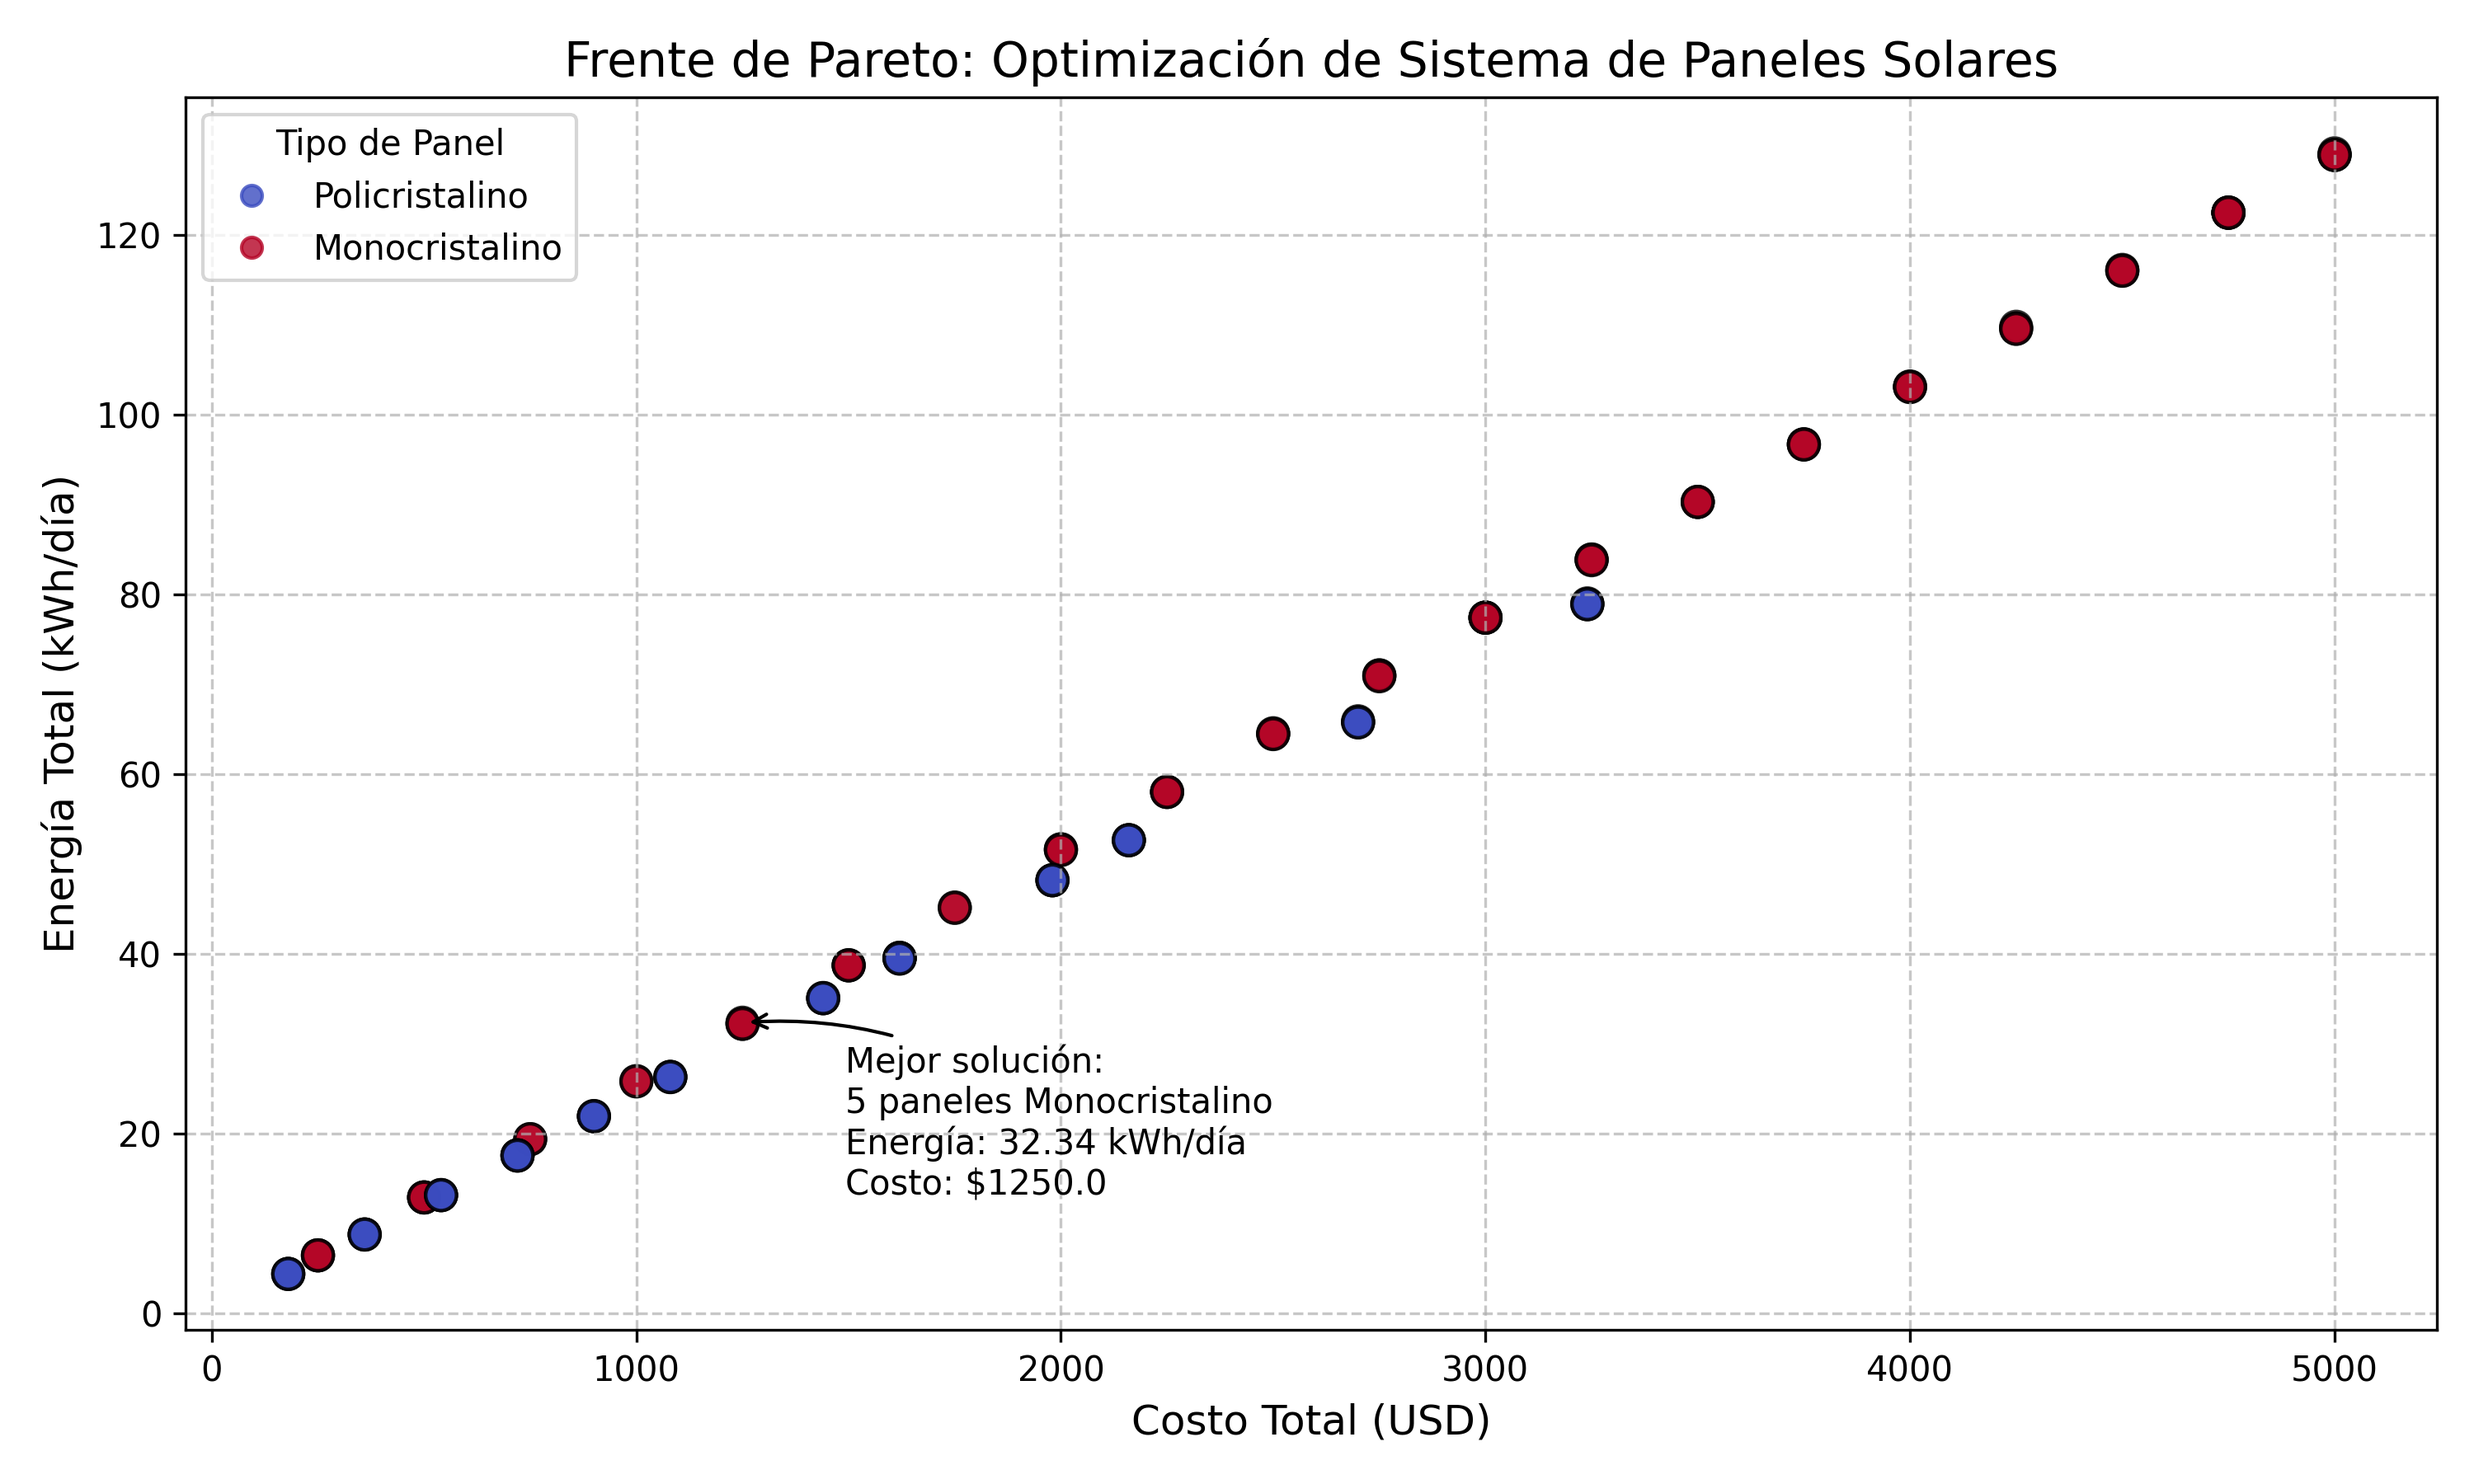
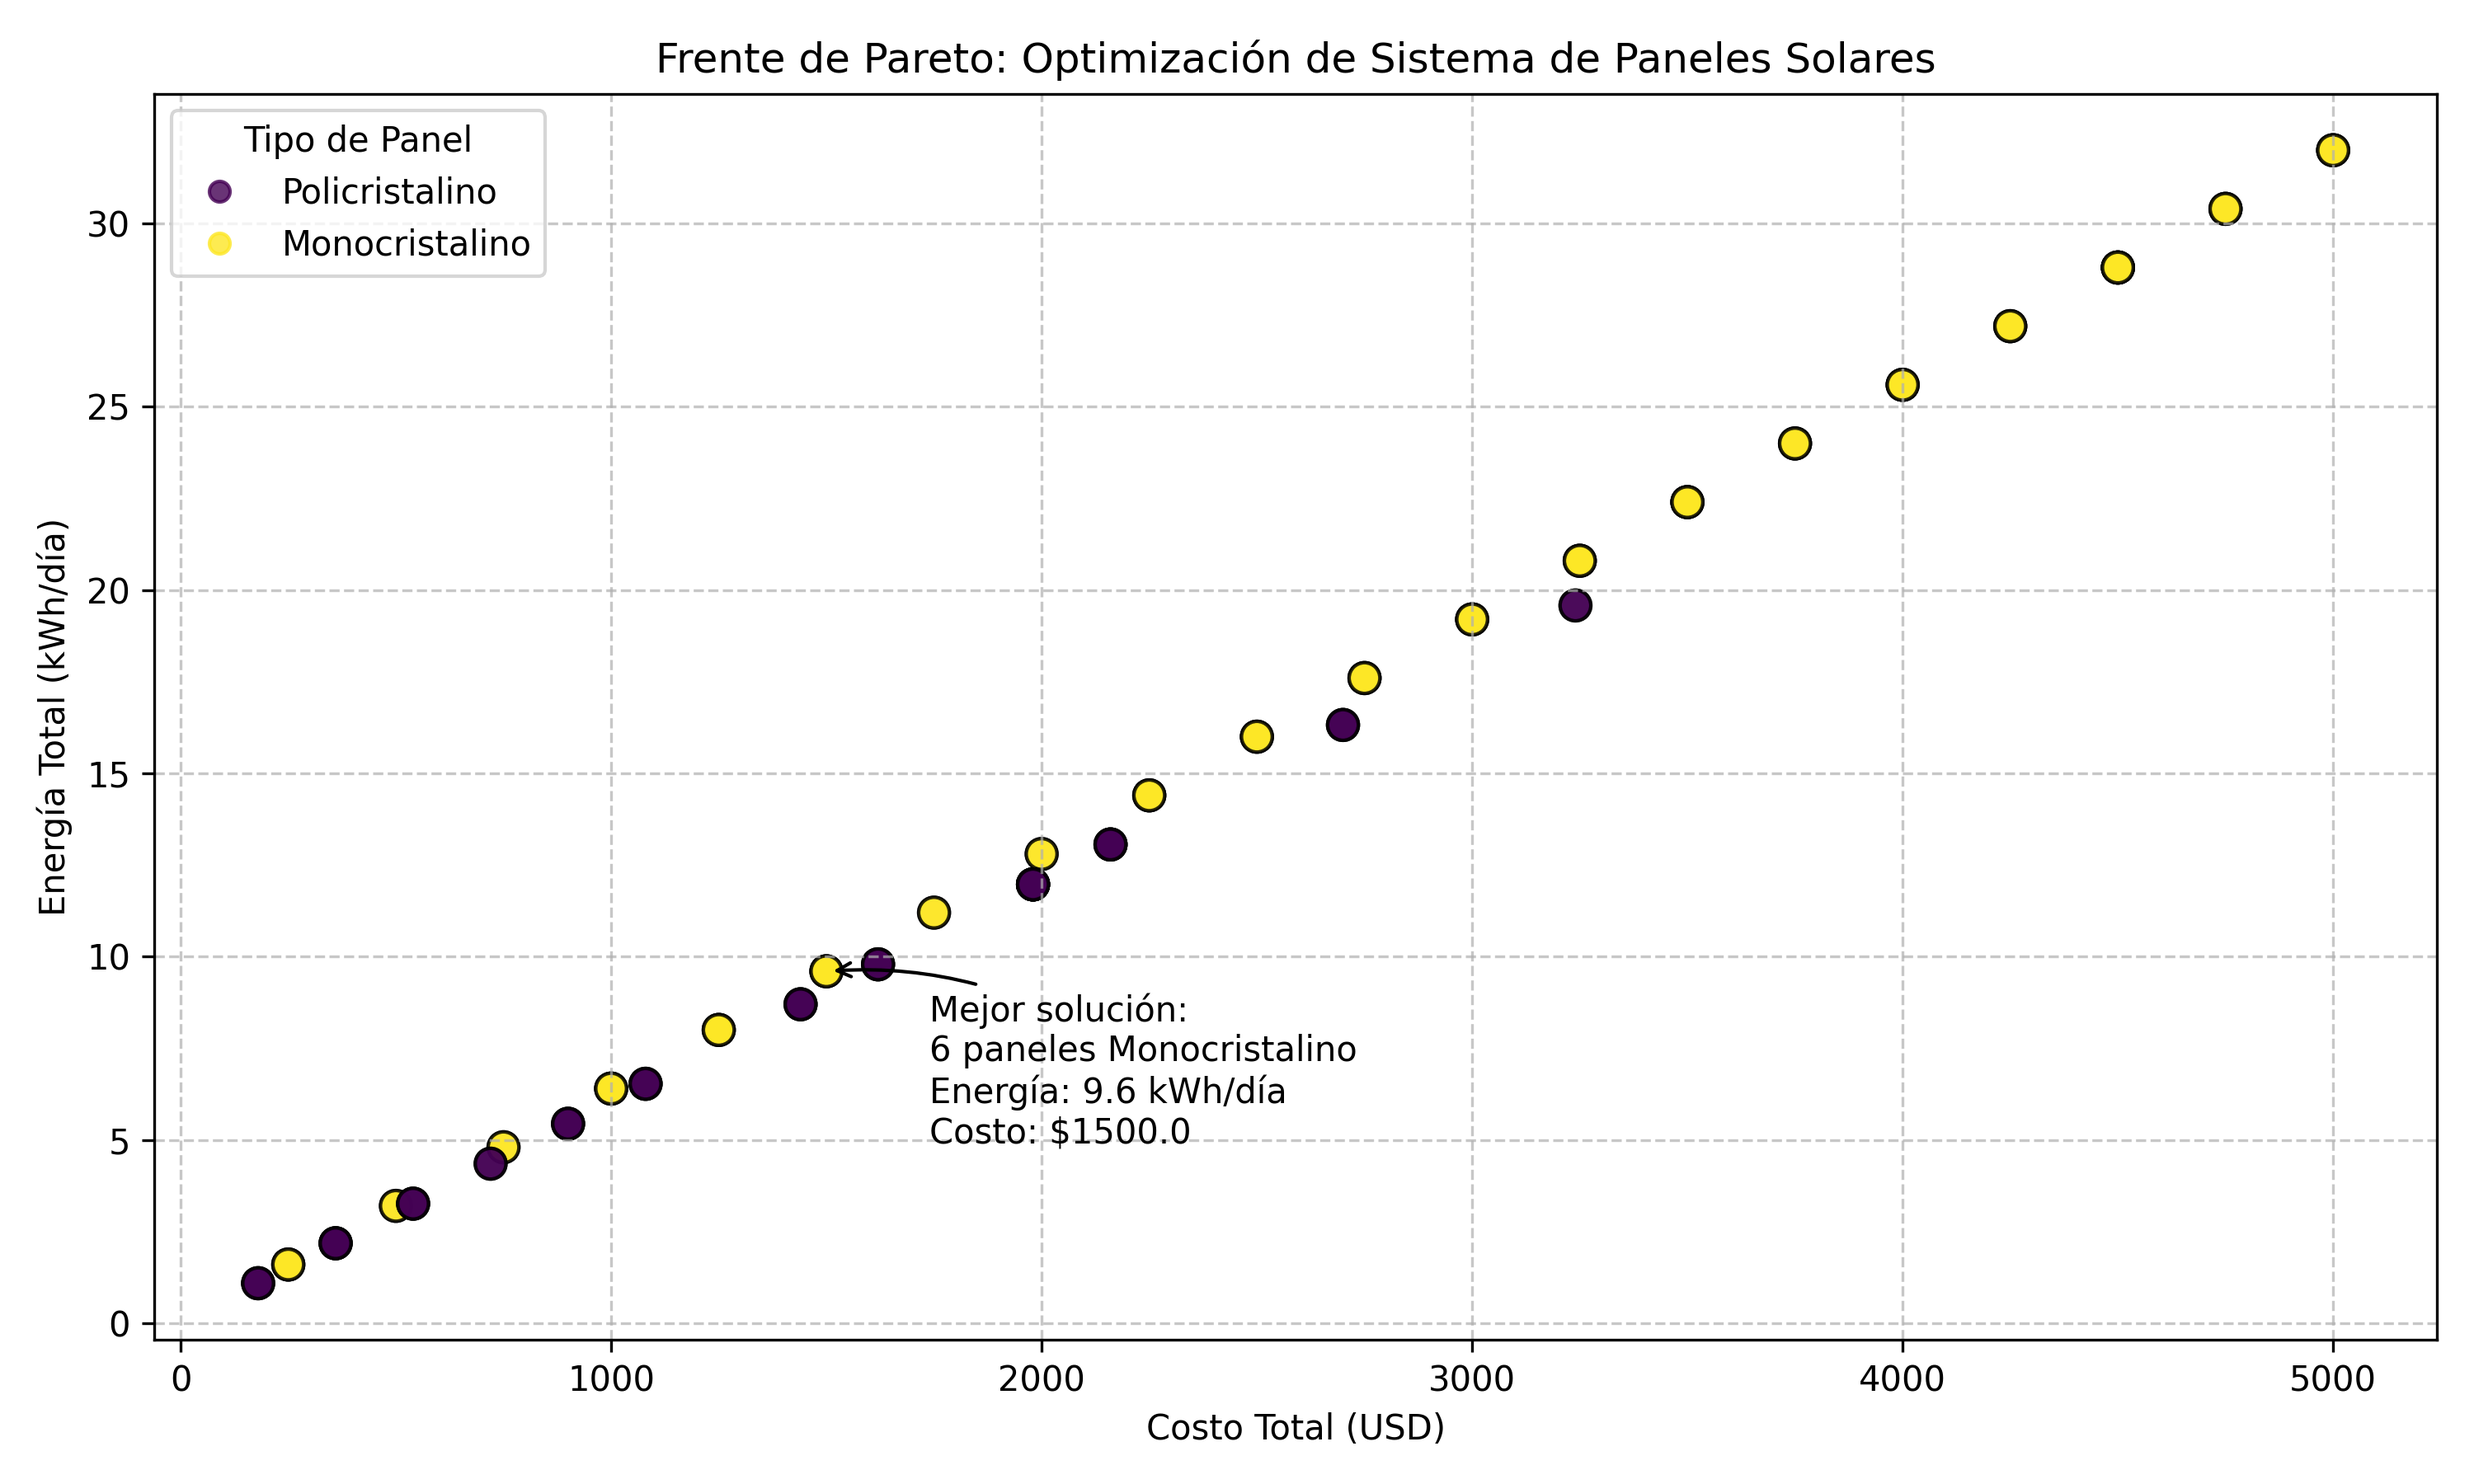
nsga

diff --git a/semester_08/metaheuristicas_2/NSGA-II_paneles.py b/semester_08/metaheuristicas_2/NSGA-II_paneles.py
@@ -1,0 +1,236 @@
+import random
+import numpy as np
+import csv
+from deap import base, creator, tools, algorithms
+import matplotlib.pyplot as plt
+
+# --------------------------
+# Parámetros del problema
+# --------------------------
+
+IRRADIANCIA = 5  # kWh/m²/día
+AREA_PANEL = 1.6  # m²
+PRESUPUESTO_MAX = 5000  # USD
+
+# Paneles
+TIPOS_PANELES = {
+    0: {"nombre": "Policristalino", "eficiencia": 0.16, "captacion_relativa": 0.85, "costo": 180},
+    1: {"nombre": "Monocristalino", "eficiencia": 0.20, "captacion_relativa": 1.0, "costo": 250}
+}
+
+# Restricciones
+INCLINACION_MIN, INCLINACION_MAX = 0, 45
+ORIENTACION_MIN, ORIENTACION_MAX = 0, 360
+PANELES_MIN, PANELES_MAX = 1, 50
+
+# Límites para decorador de cruce\ nBOUNDS_LOW = [0, INCLINACION_MIN, ORIENTACION_MIN, PANELES_MIN]
+BOUNDS_LOW = [0, INCLINACION_MIN, ORIENTACION_MIN, PANELES_MIN]
+BOUNDS_HIGH = [1, INCLINACION_MAX, ORIENTACION_MAX, PANELES_MAX]
+
+# Decorador genérico para recortar hijos tras el crossover
+def check_bounds(min_vals, max_vals):
+    def decorator(func):
+        def wrapper(ind1, ind2, *args, **kwargs):
+            off1, off2 = func(ind1, ind2, *args, **kwargs)
+            for ind in (off1, off2):
+                # Tipo de panel: entero 0 o 1
+                ind[0] = max(min_vals[0], min(max_vals[0], int(round(ind[0]))))
+                # Inclinación
+                ind[1] = max(min_vals[1], min(max_vals[1], ind[1]))
+                # Orientación
+                ind[2] = max(min_vals[2], min(max_vals[2], ind[2]))
+                # Número de paneles: entero en [PANELES_MIN, PANELES_MAX]
+                ind[3] = max(min_vals[3], min(max_vals[3], int(round(ind[3]))))
+            return off1, off2
+        return wrapper
+    return decorator
+
+# --------------------------
+# Modelo de energía generada
+# --------------------------
+
+def calcular_energia(tipo, inclinacion, orientacion, num_paneles):
+    """
+    Calcula la energía generada por la configuración de paneles solares.
+    """
+    tipo = max(0, min(1, int(round(tipo))))
+    panel = TIPOS_PANELES[tipo]
+
+    factor_inclinacion = max(0.5, 1 - 0.005 * abs(inclinacion - 30))
+    desviacion_sur = min(abs(orientacion - 180), 360 - abs(orientacion - 180))
+    factor_orientacion = max(0.5, 1 - 0.001 * desviacion_sur)
+    captacion_relativa = panel["captacion_relativa"] * factor_inclinacion * factor_orientacion
+
+    energia_panel = IRRADIANCIA * panel["eficiencia"] * AREA_PANEL * captacion_relativa
+    return energia_panel * num_paneles
+
+# --------------------------
+# Función de evaluación
+# --------------------------
+
+def evaluar(individuo):
+    tipo = int(round(individuo[0]))
+    inclinacion = individuo[1]
+    orientacion = individuo[2]
+    num_paneles = max(1, int(round(individuo[3])))
+
+    tipo_idx = max(0, min(1, tipo))
+    costo = num_paneles * TIPOS_PANELES[tipo_idx]["costo"]
+    energia = calcular_energia(tipo, inclinacion, orientacion, num_paneles)
+
+    if costo > PRESUPUESTO_MAX:
+        return 0.0, costo
+    else:
+        return energia, costo
+
+# --------------------------
+# Configurar DEAP y NSGA-II
+# --------------------------
+
+# Eliminar creadores anteriores si existen
+if 'FitnessMulti' in creator.__dict__:
+    del creator.FitnessMulti
+if 'Individual' in creator.__dict__:
+    del creator.Individual
+
+creator.create("FitnessMulti", base.Fitness, weights=(1.0, -1.0))
+creator.create("Individual", list, fitness=creator.FitnessMulti)
+
+toolbox = base.Toolbox()
+toolbox.register("tipo", random.randint, 0, 1)
+toolbox.register("inclinacion", random.uniform, INCLINACION_MIN, INCLINACION_MAX)
+toolbox.register("orientacion", random.uniform, ORIENTACION_MIN, ORIENTACION_MAX)
+toolbox.register("num_paneles", random.randint, PANELES_MIN, PANELES_MAX)
+
+toolbox.register("individual", tools.initCycle, creator.Individual,
+                 (toolbox.tipo, toolbox.inclinacion, toolbox.orientacion, toolbox.num_paneles), n=1)
+toolbox.register("population", tools.initRepeat, list, toolbox.individual)
+
+toolbox.register("evaluate", evaluar)
+
+# Registramos cxBlend y lo decoramos para recortar límites
+toolbox.register("mate", tools.cxBlend, alpha=0.5)
+toolbox.decorate("mate", check_bounds(BOUNDS_LOW, BOUNDS_HIGH))
+
+# Mutación personalizada
+def custom_mutate(individual, indpb, sigma, low, up):
+    size = len(individual)
+    for i in range(size):
+        if random.random() <= indpb:
+            if i == 0:
+                individual[i] = 1 - individual[i] if random.random() < 0.5 else individual[i]
+            elif i == 3:
+                delta = random.randint(-3, 3)
+                new_val = int(round(individual[i])) + delta
+                individual[i] = max(low[i], min(up[i], new_val))
+            else:
+                new_val = individual[i] + random.gauss(0, sigma * (up[i] - low[i]))
+                individual[i] = max(low[i], min(up[i], new_val))
+    return individual,
+
+toolbox.register("mutate", custom_mutate,
+                 indpb=0.2,
+                 sigma=0.1,
+                 low=[0, INCLINACION_MIN, ORIENTACION_MIN, PANELES_MIN],
+                 up=[1, INCLINACION_MAX, ORIENTACION_MAX, PANELES_MAX])
+
+toolbox.register("select", tools.selNSGA2)
+
+# --------------------------
+# Ejecutar algoritmo
+# --------------------------
+
+def main():
+    random.seed(42)
+    np.random.seed(42)
+
+    POP_SIZE = 100
+    NGEN = 100
+    MU = 100
+    LAMBDA = 100
+    CXPB = 0.7
+    MUTPB = 0.3
+
+    pop = toolbox.population(n=POP_SIZE)
+    fitnesses = list(map(toolbox.evaluate, pop))
+    for ind, fit in zip(pop, fitnesses):
+        ind.fitness.values = fit
+
+    stats = tools.Statistics(lambda ind: ind.fitness.values)
+    stats.register("avg", np.mean, axis=0)
+    stats.register("min", np.min, axis=0)
+    stats.register("max", np.max, axis=0)
+
+    pop, logbook = algorithms.eaMuPlusLambda(pop, toolbox, mu=MU, lambda_=LAMBDA,
+                                             cxpb=CXPB, mutpb=MUTPB, ngen=NGEN,
+                                             stats=stats, verbose=True)
+    return pop, logbook
+
+if __name__ == "__main__":
+    final_pop, log = main()
+
+    soluciones_validas = []
+    for ind in final_pop:
+        energia = ind.fitness.values[0]
+        costo = ind.fitness.values[1]
+        tipo_idx = max(0, min(1, int(round(ind[0]))))
+        if costo <= PRESUPUESTO_MAX and energia > 0.5:
+            soluciones_validas.append({
+                "tipo_panel": TIPOS_PANELES[tipo_idx]["nombre"],
+                "inclinacion": round(ind[1], 2),
+                "orientacion": round(ind[2], 2),
+                "num_paneles": int(round(ind[3])),
+                "energia_total_kWh_dia": round(energia, 2),
+                "costo_total_usd": round(costo, 2),
+                "ratio_costo_energia": round(costo / energia, 2) if energia > 0 else float('inf')
+            })
+
+    soluciones_validas.sort(key=lambda x: x["ratio_costo_energia"])
+
+    if soluciones_validas:
+        with open("soluciones_paneles.csv", "w", newline="") as f:
+            writer = csv.DictWriter(f, fieldnames=soluciones_validas[0].keys())
+            writer.writeheader()
+            writer.writerows(soluciones_validas)
+        print(f"\nSe guardaron {len(soluciones_validas)} soluciones válidas en 'soluciones_paneles.csv'.")
+
+        energia_vals = [s["energia_total_kWh_dia"] for s in soluciones_validas]
+        costo_vals = [s["costo_total_usd"] for s in soluciones_validas]
+        tipos = [1 if s["tipo_panel"] == "Monocristalino" else 0 for s in soluciones_validas]
+
+        plt.figure(figsize=(10, 6))
+        plt.scatter(costo_vals, energia_vals, c=tipos, alpha=0.8, s=80, edgecolors='black')
+        plt.grid(True, linestyle='--', alpha=0.7)
+        plt.xlabel("Costo Total (USD)")
+        plt.ylabel("Energía Total (kWh/día)")
+        plt.title("Frente de Pareto: Optimización de Sistema de Paneles Solares")
+
+        legend_labels = ['Policristalino', 'Monocristalino']
+        legend = plt.legend(handles=plt.gca().collections[0].legend_elements()[0], labels=legend_labels,
+                            title="Tipo de Panel", loc="upper left")
+
+        if len(soluciones_validas) >= 3:
+            best = soluciones_validas[0]
+            plt.annotate(
+                f"Mejor solución:\n{best['num_paneles']} paneles {best['tipo_panel']}\n"
+                f"Energía: {best['energia_total_kWh_dia']} kWh/día\n"
+                f"Costo: ${best['costo_total_usd']}",
+                xy=(best['costo_total_usd'], best['energia_total_kWh_dia']),
+                xytext=(30, -50), textcoords='offset points',
+                arrowprops=dict(arrowstyle='->', connectionstyle='arc3,rad=.2')
+            )
+
+        plt.tight_layout()
+        plt.savefig("frente_pareto_paneles.png", dpi=300)
+        plt.show()
+
+        print("\nMejores 5 soluciones por relación costo/energía:")
+        for i, sol in enumerate(soluciones_validas[:5], 1):
+            print(f"{i}. {sol['num_paneles']} paneles {sol['tipo_panel']}, "
+                  f"inclinación: {sol['inclinacion']}°, orientación: {sol['orientacion']}°, "
+                  f"Energía: {sol['energia_total_kWh_dia']} kWh/día, "
+                  f"Costo: ${sol['costo_total_usd']}, "
+                  f"USD/kWh: {sol['ratio_costo_energia']}")
+    else:
+        print("No se encontraron soluciones válidas que cumplan con el presupuesto.")
+        
